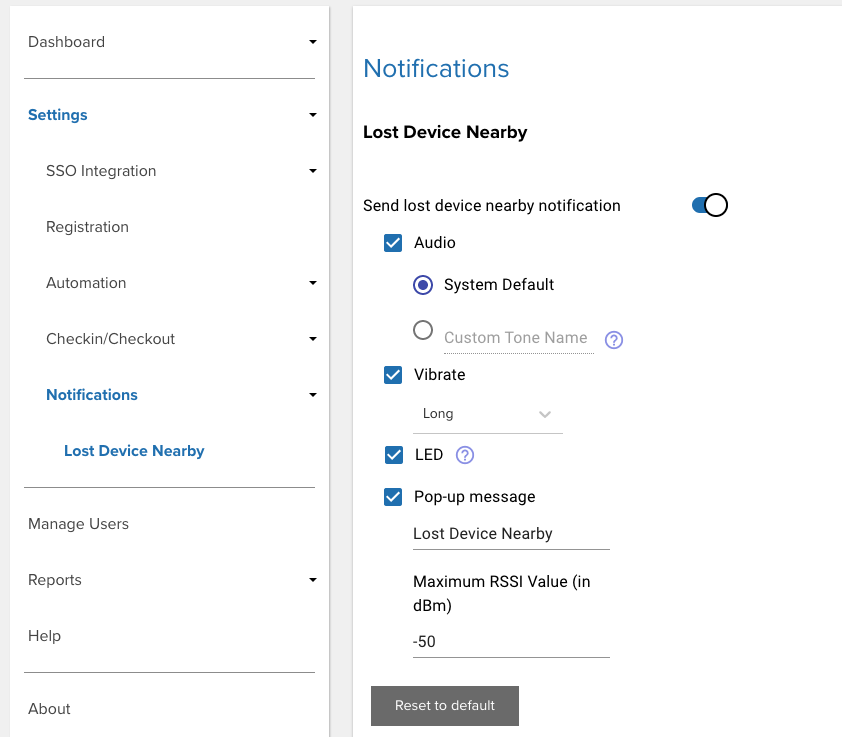
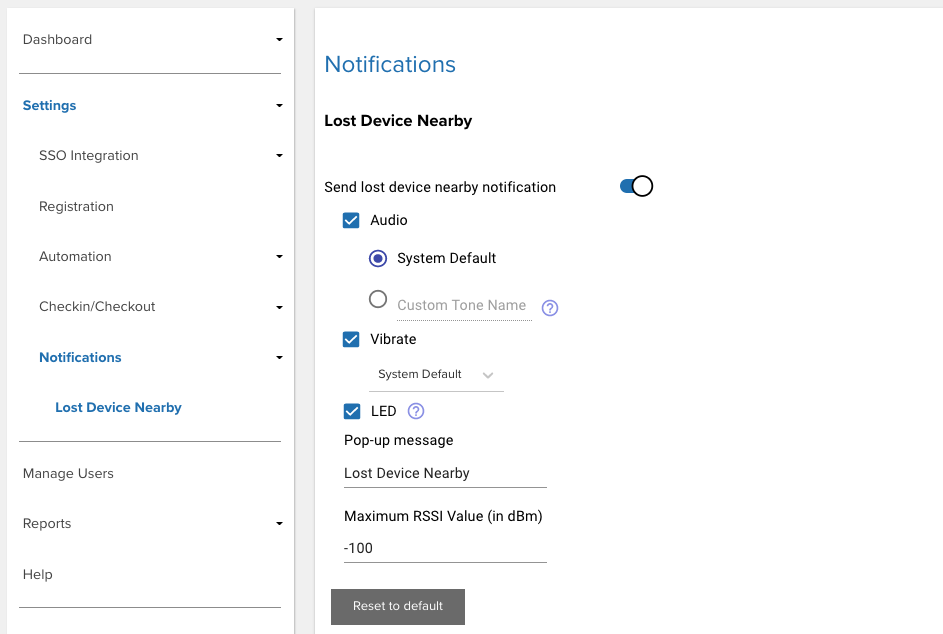
[SOLA-10334] DTRK 5.2 - Lost Device Nearby

diff --git a/devicetracker/5-2/guide/config/index.html b/devicetracker/5-2/guide/config/index.html
@@ -1483,7 +1483,7 @@ b. <strong>Automatically assign devices to a Connected AP's site</strong><br><i>
 
 <h3 id="enablecheckincheckout" class="anchor"><a class="heading-anchor" href="#enablecheckincheckout"><span></span></a>Enable Checkin/Checkout</h3>
 
-<p>To enable device checkout, access the web portal by entering the URL provided by Zebra in a <a href="../setup/#webportalrequirements">supported browser</a>.</p>
+<p>Checkin/Checkout is disabled by default. To enable device checkout, access the web portal by entering the URL provided by Zebra in a <a href="../setup/#webportalrequirements">supported browser</a>.</p>
 
 <ol>
 <li>Log in to the web portal as an administrator.</li>
@@ -1596,73 +1596,11 @@ b. <strong>Automatically assign devices to a Connected AP's site</strong><br><i>
 
 <h2 id="lostdevicenearby" class="anchor"><a class="heading-anchor" href="#lostdevicenearby"><span></span></a>Lost Device Nearby</h2>
 
-<p>When a device is lost and marked for retrieval (either manually or automatically), if no users are available to actively find the device, notification alerts can automatically be sent to any device located within close proximity of the lost device. The nearby user that receives the notification can promptly initiate the finding process, allowing for the lost device to be found more quickly due to its vicinity being immediately known. </p>
-
-<p>When the lost device is detected to be within nearby proximity, a notification appears on the detecting device alerting the user. If there are multiple lost devices detected nearby, a notification is received from each lost device. Tap on the notification to start the finding process. If the detecting device is online (internet is available), the Device Tracker <a href="../dashboard/#devicedetails">Device Details</a> screen appears and the user can start the finding process by tapping the <strong>Start Finding</strong> button. The user proceeds to find the lost device with the <a href="../use/#finddevice">proximity meter</a> and play sound features.</p>
-
-<p>If the detecting device is <em>offline</em> (as indicated in the notification message), the finding process immediately starts after tapping on the notification. The Device Tracker app appears for the user to find the lost device with the <a href="../use/#finddevice">proximity meter</a> and play sound features. However, action cannot be taken (e.g. mark the device as "Found") until the detecting device is back online.</p>
-
-<p><img alt="image" style="height:350px" src="lost-device-notification.png"></p>
-
-<p><em>Notification of lost device nearby</em></p>
-
-<p><em>Lost Device Nearby</em> is <a href="#notificationconfiguration">enabled</a> by the administrator with options to configure the notification type (audio, vibrating or LED alerts, or a combination) and customize the notification message. In order for it to operate, the detecting device must be "In Service" and the lost device must be in the "To Be Found" state.</p>
-
-<p>When <em>Lost Device Nearby</em> is enabled, the "To Be Found" screen displays the following tabs:</p>
-
-<ul>
-<li><strong>All -</strong> Displays devices that are marked "To Be Found" for the respective site.</li>
-
-<li><strong>Nearby -</strong> Filters devices that are marked "To Be Found" for the respective site and are receiving Bluetooth beacons within nearby proximity.</li>
-</ul>
-
-<table>
-  <tbody><tr>
-   <td> 
-        <img alt="image" style="height:350px" src="to-be-found-all.png">
-   </td>
-   <td>&nbsp;&nbsp;&nbsp;&nbsp;&nbsp;</td>
-   <td>
-        <img alt="image" style="height:350px" src="to-be-found-nearby.png">
-   </td> 
-  </tr>
-  <tr>
-    <td>
-        <i>To Be Found - All Devices</i>
-    </td>
-    <td>&nbsp;&nbsp;&nbsp;&nbsp;&nbsp;</td>
-    <td>
-        <i>To Be Found - Nearby Devices</i>
-    </td>
-  </tr>
-</tbody></table>
-
-<p>If the detecting device is offline (no internet connectivity), nearby devices can still be detected from the BLE beacons received. The nearby device is displayed as "unknown" along with its beacon ID:</p>
-
-<p><img alt="image" style="height:350px" src="lost-device-nearby-unknown.png"></p>
-
-<p><strong>Usage Notes:</strong> </p>
-
-<ul>
-<li>Any <em>Lost Device Nearby</em> notifications are removed when Bluetooth beacons are no longer received from the lost device. This could be due the lost device no longer being detected when in close proximity range for at least 5 minutes or due to a change in device state of the lost device from "To Be Found" to another state.</li>
-
-<li><em>Lost Device Nearby</em> notifications are <em>not</em> received in any of the following scenarios:
-
-
-<ul>
-<li>The detecting device is no longer in the "In Service" state.</li>
-
-<li>The detecting device is charging. </li>
-
-<li>The <a href="#checkincheckoutdevice">Checkin/Checkout</a> feature is enabled and user has not checked out the device.</li>
-
-<li>The detecting device is in a low battery state, based on the <a href="../config/#configureautomationsettings">Low battery threshold</a>.</li></ul>
-</li>
-</ul>
+<p><em>Lost Device Nearby</em> is an optional feature that sends alert notifications to a device when a lost device is detected within close proximity. Alerts can be sent as one or a combination of the following: audio, vibration, LED, and/or pop-up notification.  </p>
 
 <h3 id="notificationconfiguration" class="anchor"><a class="heading-anchor" href="#notificationconfiguration"><span></span></a>Notification Configuration</h3>
 
-<p>To enable the <em>Lost Device Nearby</em> feature and configure its notification settings:</p>
+<p><em>Lost Device Nearby</em> notification is disabled by default. To enable this feature and configure its notification settings:</p>
 
 <ol>
 <li>Login to the web portal as an administrator.</li>
@@ -1672,7 +1610,7 @@ b. <strong>Automatically assign devices to a Connected AP's site</strong><br><i>
 
 <li>Toggle to enable the option <strong>Send lost device nearby notification.</strong></li>
 
-<li>Select one or more of the following methods to notify the user of a lost device within the vicinity:
+<li>Select one or more of the following notifications to alert the user of a lost device detected within the vicinity:
 
 
 <ul>

diff --git a/devicetracker/5-2/guide/use/index.html b/devicetracker/5-2/guide/use/index.html
@@ -508,6 +508,69 @@ This section discusses the actions that can be taken to track devices:
 <li>Disable access to Android Settings by using an EMM or <a href="/ehs">Zebra Enterprise Home Screen</a>.</li>
 </ul>
 
+<h2 id="lostdevicenearby" class="anchor"><a class="heading-anchor" href="#lostdevicenearby"><span></span></a>Lost Device Nearby</h2>
+
+<p><a href="../config/#lostdevicenearby">Lost Device Nearby</a> is an optional feature configured by the administrator that sends alert notifications (audio, vibration, LED, and/or pop-up) to a device when a lost device is detected within close proximity. This allows the lost device to be found by nearby users in addition to users actively searching for the device. The nearby user that receives the notification can promptly initiate the finding process, allowing the lost device to be found more quickly due to its vicinity being immediately known. </p>
+
+<p>When the notification appears on the detecting device, it includes the device model and device name of the lost device. Tap on the notification to start the finding process. If there are multiple lost devices detected nearby, a notification is received from each lost device. If the detecting device is online (internet is available), the Device Tracker <a href="../dashboard/#devicedetails">Device Details</a> screen appears and the user can start the finding process by tapping the <strong>Start Finding</strong> button. The user proceeds to find the lost device with the <a href="../use/#finddevice">proximity meter</a> and play sound features.</p>
+
+<p><img alt="image" style="height:350px" src="lost-device-notification.png"></p>
+
+<p><em>Multiple notifications of lost devices nearby</em></p>
+
+<p>The notification is received even if the detecting device is <em>offline</em> (as indicated in the notification message). In this case, tap on the notification to immediately start the finding process. The Device Tracker app appears for the user to find the lost device with the <a href="../use/#finddevice">proximity meter</a>. Although the detecting device cannot mark the device as "Found" or "Cannot Find" until the detecting device is back online, this can be done in the web portal by the manager or administrator.</p>
+
+<p><img alt="image" style="height:350px" src="lost-device-nearby-offline.png"></p>
+
+<p><em>Notification received when the detecting device is offline</em></p>
+
+<p>When <em>Lost Device Nearby</em> is enabled, the "To Be Found" screen displays 2 tabs:</p>
+
+<ul>
+<li><strong>All -</strong> Displays devices that are marked "To Be Found" for the respective site.</li>
+
+<li><strong>Nearby -</strong> Filters lost devices that are marked "To Be Found" and are receiving Bluetooth beacons while within nearby proximity.</li>
+</ul>
+
+<table>
+  <tbody><tr>
+   <td> 
+        <img alt="image" style="height:350px" src="to-be-found-all.png">
+   </td>
+   <td>&nbsp;&nbsp;&nbsp;&nbsp;&nbsp;</td>
+   <td>
+        <img alt="image" style="height:350px" src="to-be-found-nearby.png">
+   </td> 
+  </tr>
+  <tr>
+    <td>
+        <i>To Be Found - All Devices</i>
+    </td>
+    <td>&nbsp;&nbsp;&nbsp;&nbsp;&nbsp;</td>
+    <td>
+        <i>To Be Found - Nearby Devices</i>
+    </td>
+  </tr>
+</tbody></table>
+
+<p>If the detecting device is offline (no internet connectivity), nearby devices can still be detected from the BLE beacons received. The nearby device is displayed as "Unknown" along with its beacon ID:</p>
+
+<p><img alt="image" style="height:350px" src="lost-device-nearby-unknown.png"></p>
+
+<p>The detecting device only receives <em>Lost Device Nearby</em> notifications in the following scenarios:</p>
+
+<ul>
+<li>The detecting device is in the "In Service" state.</li>
+
+<li>The detecting device is not charging or not in a low battery state, based on the <a href="../config/#configureautomationsettings">Low battery threshold</a>.</li>
+
+<li>The <a href="#checkincheckoutdevice">Checkin/Checkout</a> feature is disabled and user has checked out the detecting device.</li>
+
+<li>The lost device must be marked for retrieval (either manually or automatically) in the "To Be Found" state.</li>
+</ul>
+
+<p><strong>Usage Note:</strong> Any <em>Lost Device Nearby</em> notifications are removed when Bluetooth beacons are no longer received from the lost device. This could be due the lost device no longer being detected when in close proximity range for at least 5 minutes or due to a change in device state of the lost device from "To Be Found" to another state.</p>
+
 <h2 id="disablefinding" class="anchor"><a class="heading-anchor" href="#disablefinding"><span></span></a>Disable Finding</h2>
 
 <p>After a device is marked <strong>To Be Found</strong>, if the device search needs to be terminated follow these steps (applies to only managers and administrators):</p>
